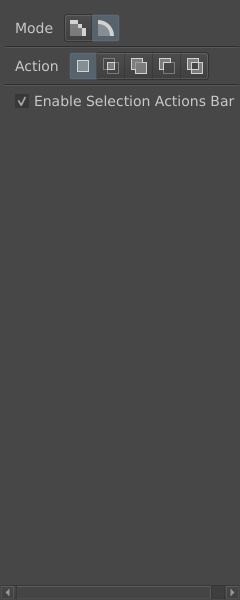
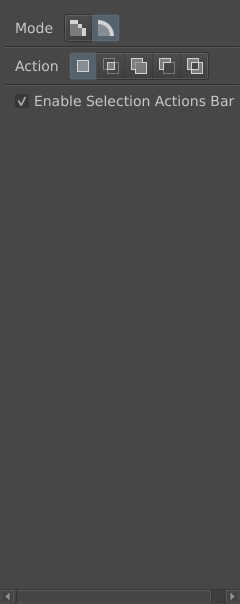
WIP: keep tile and undo data in memory; report 3 GiB to Krita in the browser
Unverified in the main build. Found and verified by the G'MIC agent in its own build:
undo of a whole-layer operation restored only a few tiles.

Claude-Session: https://claude.ai/code/session_014b13jwQv8MZqDFc838mM6Z

diff --git a/engine/bridge/main.cpp b/engine/bridge/main.cpp
@@ -38,6 +38,7 @@
 #include <QMouseEvent>
 #include <QApplication>
 #include <QDockWidget>
+#include <kis_image_config.h>
 #include <KoDockRegistry.h>
 #include <KoDockFactoryBase.h>
 #include <KoCanvasObserverBase.h>
@@ -1886,6 +1887,9 @@ int main(int argc, char *argv[])
     // Krita's own application class: parts of Krita cast qApp to it (e.g. the input manager).
     WebApplication app(QStringLiteral("krita-web"), argc, argv);
     app.setApplicationDisplayName(QStringLiteral("Krita"));
+    // Keep tile data (and with it the undo history) in memory rather than in Krita's swap file:
+    // there is no disk here, and swapped data came back blank (undo of a filter restored only a few tiles).
+    { KisImageConfig config(false); config.setMemorySoftLimitPercent(95); }
     lap("applicationMs");
     // Preloaded files get "now" as their modification time on every page load, which would make
     // Krita think the bundle changed and re-import it. Pin it so a stored database stays valid.
